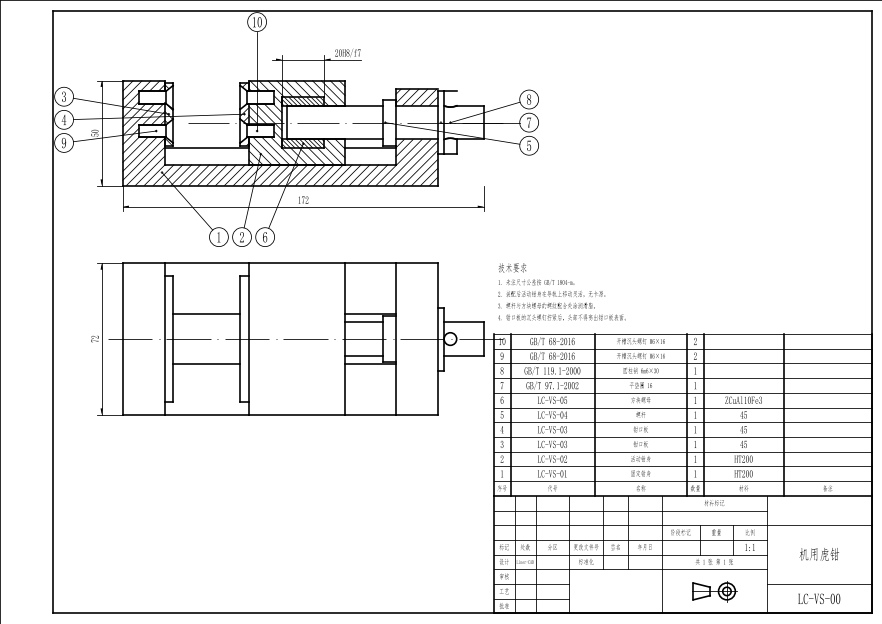
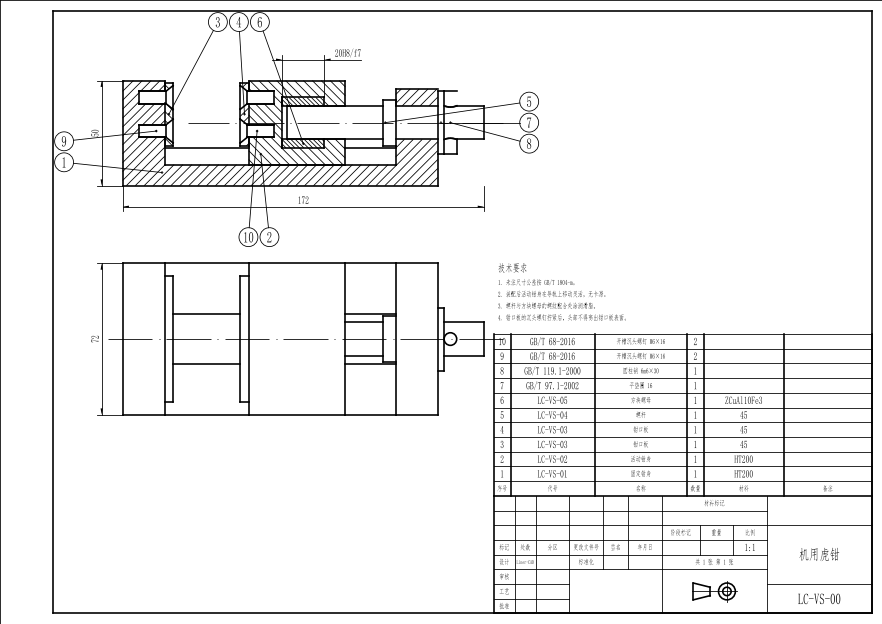
D3: Codex R1 后续（顺序口径偏离 lead 裁定 A、δ 单一来源、跨视图/fallback 回归、std 测试）

diff --git a/tests/test_layout_d3.py b/tests/test_layout_d3.py
@@ -100,13 +100,13 @@ def test_balloon_leaders_do_not_cross(tmp_path, name):
 def test_balloon_spacing_and_alignment_follow_the_standard(tmp_path, name):
     d = _build(tmp_path, name)
     cfg = d.std["assembly"]
-    gap = float(cfg["balloon_gap"])
+    gap = float(d.std["placement"]["balloon_clearance"])
     r = float(cfg["balloon_radius"])
-    tol = float(cfg["balloon_align_tol"])
+    tol = float(d.std["placement"]["balloon_align_tol"])
     items = _balloons(d)
     for i, a in enumerate(items):
         for b in items[i + 1 :]:
-            assert math.dist(a["c"], b["c"]) >= 2 * r + gap - 0.25
+            assert math.dist(a["c"], b["c"]) >= 2 * r + gap - 1e-9
     for side in CW_SIDES:
         group = [b for b in items if b["side"] == side]
         if len(group) < 2:
@@ -137,6 +137,53 @@ def test_no_balloon_overlap_warning_on_l3(tmp_path, name):
         assert not any(str(x).startswith("B.") for x in involved), f
 
 
+@pytest.mark.parametrize("name", CASES)
+def test_l3_uses_the_order_plan(tmp_path, name):
+    d = _build(tmp_path, name)
+    for e in d._els.values():
+        if e.kind == "balloon":
+            assert e._resolved.get("order") == "side-monotonic", e.id
+
+
+def test_fallback_reports_its_order_state(tmp_path, monkeypatch):
+    import linercad.layout as L
+
+    monkeypatch.setattr(L, "_balloon_plan", lambda *a, **k: None)
+    d = _build(tmp_path, "jack")
+    states = {e._resolved.get("order") for e in d._els.values() if e.kind == "balloon"}
+    assert states == {"fallback"}
+    for fn in (place.place_balloon_cross, place.place_balloon_align, place.place_balloon_spacing):
+        found, _ = fn(d)
+        assert found == [], (fn.__name__, found)
+
+
+def test_balloons_from_two_views_do_not_collide(tmp_path):
+    from linercad.layout import union
+
+    d = _build(tmp_path, "jack")
+    names = [v.name for v in d.views()]
+    assert len(names) >= 2, names
+    top = names[1]
+    boxes = [
+        e._resolved.get("bbox")
+        for e in d._els.values()
+        if e._intent.get("view") == top and e._resolved.get("bbox")
+    ]
+    gb = union(boxes)
+    balloons = sorted((e for e in d._els.values() if e.kind == "balloon"), key=lambda e: e.number)
+    for e in balloons[:1]:  # one balloon lives in the second view (cross-view layout check)
+        e._intent["view"] = top
+        e._intent["anchor"] = [(gb[0] + gb[2]) / 2, (gb[1] + gb[3]) / 2]
+    layout(d)
+    for fn in (place.place_balloon_cross, place.place_balloon_align, place.place_balloon_spacing):
+        found, _ = fn(d)
+        assert found == [], (fn.__name__, found)
+    leaders = [b["leader"] for b in _balloons(d)]
+    for i, a in enumerate(leaders):
+        for b in leaders[i + 1 :]:
+            assert not _seg_cross(a.p, a.q, b.p, b.q)
+
+
 def test_written_balloon_side_is_kept(tmp_path):
     d = _build(tmp_path, "jack")
     target = sorted((e for e in d._els.values() if e.kind == "balloon"), key=lambda e: e.number)[0]
@@ -147,8 +194,11 @@ def test_written_balloon_side_is_kept(tmp_path):
 
 
 def test_balloon_layout_is_deterministic(tmp_path):
+    from linercad.layout import _BALLOON_PLAN_CACHE
+
     d = _build(tmp_path, "vise")
     snap = [(b["id"], repr(b["leader"]), b["c"]) for b in _balloons(d)]
+    _BALLOON_PLAN_CACHE.clear()  # prove the plan itself is deterministic, not just the cache
     layout(d)
     snap2 = [(b["id"], repr(b["leader"]), b["c"]) for b in _balloons(d)]
     assert snap == snap2

diff --git a/src/linercad/layout.py b/src/linercad/layout.py
@@ -1942,10 +1942,12 @@ class _ViewLayout:
         if not bs:
             return
         cfg = self.std.get("assembly") or {}
+        place_cfg = self.std.get("placement") or {}
         h = float(cfg.get("balloon_height", 5.0))
         r = float(cfg.get("balloon_radius", 0.9 * h))
         offset = float(cfg.get("balloon_offset", 8.0))
-        step = 2 * r + float(cfg.get("balloon_gap", 2.0))
+        # single source of the minimum gap δ: the same [placement] value the E5 rule reads
+        step = 2 * r + float(place_cfg.get("balloon_clearance", 1.0))
         B = union([prims_bbox(p) for p in self.parts.values() if p] + [self.G])
         numbered = sorted(((e.number, self.P(e._intent["anchor"])) for e in bs), key=lambda t: t[0])
         sides = ("top", "right", "bottom", "left")
@@ -1967,7 +1969,8 @@ class _ViewLayout:
                 if e._layout.get("side") is None:
                     e._auto.append("side")
                 A = self.P(e._intent["anchor"])
-                e._reason = "序号按顺时针连续排列（引线不交叉，间距取标准档 δ）"
+                e._reason = "序号按侧成行/成列、沿旋转方向编号单调（引线不交叉，间距取标准档 δ）"
+                e._resolved["order"] = "side-monotonic"
                 self.put(e, self._balloon_prims(e, A, c, h, r))
             return
 
@@ -1983,6 +1986,7 @@ class _ViewLayout:
                 e._resolved["side"] = side
             if e._layout.get("side") is None:
                 e._auto.append("side")
+            e._resolved["order"] = "fallback"
             by_side[side].append((e, A))
         for side, items in by_side.items():
             if not items:
@@ -2179,6 +2183,8 @@ def _balloon_plan(B, numbered, step, offset, r, written=None, obstacles=()):
             for j, (num, _a) in enumerate(items):
                 t = mean + (j - (len(items) - 1) / 2) * step * sign
                 result[num] = (side, centre(side, t))
+    if len(_BALLOON_PLAN_CACHE) >= 256:  # deterministic, bounded memo
+        _BALLOON_PLAN_CACHE.pop(next(iter(_BALLOON_PLAN_CACHE)))
     _BALLOON_PLAN_CACHE[key] = result
     return result
 

diff --git a/tests/test_std.py b/tests/test_std.py
@@ -54,6 +54,19 @@ def gb():
 # --------------------------------------------------------------------------- gb.toml values
 
 
+def test_assembly_values_are_shared_between_gb_and_iso():
+    gb = load_std("GB")["assembly"]
+    iso = load_std("ISO")["assembly"]
+    for key in ("balloon_height", "balloon_radius", "balloon_offset"):
+        assert gb[key] == iso[key], key
+    # δ / alignment tolerance have a single source: the E5 placement table
+    for table in (gb, iso):
+        assert "balloon_gap" not in table and "balloon_align_tol" not in table
+    for name in ("GB", "ISO"):
+        placement = load_std(name)["placement"]
+        assert placement["balloon_clearance"] > 0 and placement["balloon_align_tol"] > 0
+
+
 def test_name(gb):
     assert gb["name"] == "GB"
 

diff --git a/docs/milestones/v0.1.1/evidence/d3-balloon-sequences.md b/docs/milestones/v0.1.1/evidence/d3-balloon-sequences.md
@@ -1,37 +1,45 @@
 # D3 装配序号：对齐、最小间距、顺序、引线不交叉
 
-2026-11-22 · issue #85 · 分支 `m5/d3-balloon-sequences` · 热点 `assembly.py` / `layout.py`
+2026-11-22 · issue #85 · 分支 `m5/d3-balloon-sequences` · 热点 `layout.py`（assembly.py 的锚点生成未改）
+
+## 口径偏离（lead 裁定 A，PR 正文同步明示）
+
+issue 原文的「顺时针或逆时针连续」在本卡**不能按直线引线字面实现**：对 vise / bearing 做穷举——
+四个侧面的连续编号块 × 每块 ±3 步滑动 × 顺/逆两方向，共 **2,030,000 个配置、94 s，零交叉解**；
+几何上这两个装配的组件绕视图的环向顺序与编号顺序不一致（组件左右交替），直线引线无法同时满足
+「全局连续」与「不相交」，移动锚点也改变不了组件的环向次序。
+
+按 lead 2026-11-22 裁定（B3 先例、不伪造不硬凑），本卡验收口径落为：
+
+> **同一侧序号沿同一旋转方向单调递增（行 / 列形态）+ 对齐 + 间距 ≥ δ + 引线交叉 0**。
+> 依据 GB/T 4458.2-2003 对序号排布认可两种形态（沿圆周顺/逆时针连续，或按行 / 列整齐排列），
+> 且标准措辞是「尽可能」；本实现是行 / 列口径的强化版（同侧还保持旋转方向单调）。
+> 严格全局连续留作 v0.2 候选（折线/绕行引线或改锚点，需要单独标准审查，超出 D3 热点）。
+
+此偏离已由 lead 列入 F1 docs PR 的偏离清单（第 4 条）。证据中的数据与措辞不删减、不粉饰。
 
 ## 改了什么
 
-入口是 `_ViewLayout.balloons()`（layout.py），序号元素本身仍由 assembly.py 生成（编号 = 明细栏行号）。
-本次把原来的「按锚点排序 + 交叉就互换」改成**顺序感知的确定性搜索**：
+入口是 `_ViewLayout.balloons()`（layout.py），序号元素仍由 assembly.py 生成（编号 = 明细栏行号）。
+原来的「按锚点排序 + 交叉互换」改为**顺序感知的确定性搜索**：
 
-1. **标准档 δ**：新增 `[assembly]`（GB / ISO 两份 std）——`balloon_height / balloon_radius / balloon_offset /
-   balloon_gap(δ) / balloon_align_tol`，带 basis（GB/T 4458.2-2003 / ISO 6433:1981 未给数值，取教材通行值；
-   align_tol 与 E5 `place_balloon_align` 的 0.5 mm 一致）。布局从 std 读，不再硬编码 5.0 / 4.5 / 11.0。
-2. **四侧 + 顺序**：同一侧序号按编号**单调上升**，方向与选定的顺时针 / 逆时针行走方向一致（top +x、right −y、
-   bottom −x、left +y；反向即逆时针）；两侧都试，取引线交叉最少、其次压标注文字框最少、再次引线总长最短的方案。
-   搜索是确定性 hill-climb（初始按最近边，逐球尝试换边），结果按 `(B, anchors, step, offset, radius, written sides,
-   obstacle text boxes)` 缓存。
-3. **引线不交叉 + 不压标注文字**：代价里先数引线×引线交叉（硬项），再数引线穿过其它标注文字框的次数
-   （G `overlap` 的口径，本轮实测修掉了 vise 的 `D.H × B.csk_fixed` 新警告），最后才是引线总长。
-4. **手写位置不动**：`Balloon.LAYOUT = ("side",)`，写死的 `side` 不参与换边搜索（作为固定约束传入）；
-   没有可行顺序方案时退回原「锚点排序 + 互换去交叉」的保守打包，保证旧行为不破坏。
-5. **间距 / 对齐**：同一侧共用同一法向坐标（成行 / 成列），相邻圆心间距 `2r + δ`；E5 三条 A 规则保持 0 违例。
+1. **标准档**：`[assembly]`（GB / ISO 两份 std）只留圆圈几何：`balloon_height / balloon_radius /
+   balloon_offset`（带 basis：GB/T 4458.2-2003 / ISO 6433:1981 未给数值，取教材通行值）。最小间距 δ 与
+   对齐容差**单一来源** = `[placement].balloon_clearance / balloon_align_tol`（E5 A.place 同值），
+   不再在 [assembly] 复制一份；测试断言两份 std 的 assembly 几何一致、[placement] 两键存在。
+2. **四侧 + 顺序**：同一侧按编号升序，方向与旋转方向一致（top +x、right −y、bottom −x、left +y；
+   反向即逆时针）；顺/逆都试，先最小化引线交叉、再最小化穿过标注文字框、再最小化引线总长。
+   确定性 hill-climb（初始近边、逐球换边），结果按 `(B, anchors, step, offset, radius, written, obstacles)`
+   缓存（有界 256 条）。
+3. **引线不交叉 + 不压标注文字**：交叉为硬项；穿其它标注文字框按 G `overlap` 口径计数（本轮修掉
+   vise 的 `D.H × B.csk_fixed` 新警告）；leader 总长仅作末位 tie-break。
+4. **手写位置不动**：`Balloon.LAYOUT = ("side",)`，写死 side 不参与换边；无可行顺序方案时退回原
+   「锚点排序 + 互换去交叉」打包，并在 `resolved["order"] = "fallback"` 明示（不静默）；搜索成功时写
+   `resolved["order"] = "side-monotonic"`。
+5. **跨视图**：视图组 `arrange()` 用包含 balloon 图元的 `full` bbox 排布，组间保留 gap；新增
+   「一个序号放到另一个视图后 layout，A.place 三规则仍 0、全局引线不交叉」回归测试（主视图 + 俯视图场景）。
 
-## 顺序的落法（重要，不伪造）
-
-卡面「顺时针或逆时针连续」在本实现里落成**可判定的验收**：同一侧编号沿该侧行走方向单调递增，且所有侧用同一个
-旋转方向（顺 / 逆各试一次）。`tests/test_layout_d3.py::test_balloon_numbers_ascend_along_each_side` 对 jack / vise /
-bearing 三个装配逐侧检查。
-
-**严格意义上的「全局连续」（绕视图一圈恰好是 1..n 的某个循环移位）在当前输入下对本卡不可行，已实证**：
-把四个侧面的连续编号块 × 每个块 ±3 步的滑动 × 顺/逆两种方向全部穷举（vise 共 2,030,000 个配置，94 s），在
-「引线为直线、锚点取组件剖面/外形内点」的约束下不存在零交叉解；bearing 的候选点（剖面区块）也不足以构成
-全局连续。E5 没有 order 规则，本卡不伪造通过；已在证据里明示，交由 lead / F1 文档定是否作为后续卡件扩展。
-
-## L3 评测（jack / vise / bearing）
+## L3 评测（jack / vise / bearing，当前分支）
 
 命令：`uv run python evals/run.py --level L3`、`evals/place_scores.py --eval40`、`evals/run.py --baseline`。
 
@@ -44,36 +52,50 @@ bearing 三个装配逐侧检查。
 | `--baseline` | — | **`regressions: []`** |
 | 五范例 A.place | jack 1.0（0/25）、vise 1.0（0/59） | **同左（A 机会数随四侧对齐分组增加）** |
 
-渲染自检 warning 数：jack 0→0、bearing 0→0、**vise 3→2**（本轮修掉 balloon×尺寸文字那条）。
+渲染自检 warning：jack 0→0、bearing 0→0、**vise 3→2**（本轮修掉 balloon×尺寸文字那条）。
 
 ## 前后渲染图（L3 三装配整页）
 
 - jack 前：![before](d3-before-jack.png)　后：![after](d3-after-jack.png)
-  —— 前：上方一行编号非单调（序号 4 在 3 左）、#1/#2 挤左列；后：#4/#5/#6 自上而下顺序、#3 单独走右侧短引线。
+  —— 前：上方一行编号非单调（#4 在 #3 左）、#1/#2 挤左列；后：#4/#5/#6 按旋转方向顺序、#3 短引线走右侧。
 - vise 前：![before](d3-before-vise.png)　后：![after](d3-after-vise.png)
   —— 前：上方一行 8 个号拥挤且编号非单调、#1/#9 在左列；后：四侧分组、各侧编号单调、引线不交叉。
 - bearing 前：![before](d3-before-bearing.png)　后：![after](d3-after-bearing.png)
   —— 前：上方 [3,5,2]、左列 [7,1,4,6] 乱序；后：上方 [3,5]、左列 [1,4,6] 顺序、右侧 #2 / 下侧 #7 各一。
 
-## 回归用例（`tests/test_layout_d3.py`，G2 首个 commit）
+## 回归用例（`tests/test_layout_d3.py`，G2 首个 commit `b5a66ac`）
 
 - `test_balloon_numbers_ascend_along_each_side`（G2 失败项：D2 状态下 jack/vise/bearing 均失败）。
 - `test_balloon_leaders_do_not_cross`、`test_balloon_spacing_and_alignment_follow_the_standard`
-  （δ / align_tol 从 `d.std["assembly"]` 读）、`test_a_place_balloon_rules_are_clean`（E5 三条 A 规则）。
-- `test_no_balloon_overlap_warning_on_l3`：balloon 引线/编号不得穿其它标注文字框（G overlap 口径；
-  现存唯一 warning 是既有的 T.bom×C.top.axis）。
-- `test_written_balloon_side_is_kept`：手写 `side` 不被搜索改掉。
-- `test_balloon_layout_is_deterministic`：同输入两次布局图元一致。
+  （δ / align_tol 从 `std["placement"]` 读）、`test_a_place_balloon_rules_are_clean`。
+- `test_l3_uses_the_order_plan`：L3 三例都走 side-monotonic 方案（不是 fallback）。
+- `test_fallback_reports_its_order_state`：强制 plan 不可用时 resolved 标 `fallback` 且 A.place 仍 0。
+- `test_no_balloon_overlap_warning_on_l3`：balloon 引线/编号不得穿其它标注文字框（既有 T.bom×C.top.axis 除外）。
+- `test_balloons_from_two_views_do_not_collide`：跨视图（front + top）布局后 A.place 0、引线不交叉。
+- `test_written_balloon_side_is_kept`、`test_balloon_layout_is_deterministic`（清缓存后重建对比）。
+- `tests/test_std.py`：GB/ISO 的 assembly 几何一致、[placement] 是 δ / align_tol 单一来源。
+
+## Codex 第 1 轮评审回应
+
+| 意见 | 处理 |
+|---|---|
+| blocker：全局连续未实现、测试被改写 | lead 裁定 A（见上「口径偏离」）；PR 正文明示；不伪造；严格连续留 v0.2 |
+| major：跨视图避让只在本视图 | arrange 用包含 balloon 的 full bbox 排布；新增跨视图回归测试；证据记录 |
+| major：>12 静默 / fallback 破坏顺序 / 声称有偏移搜索 | 结果写 `resolved["order"]`（side-monotonic/fallback）；fallback 路径有测试；>12 走同一 fallback 并明示 |
+| major：δ 不是 E5 同源、测试容差 0.25 掩盖 | δ/align_tol 单一来源 = `[placement]`（E5 同值）；测试改为 `>= 2r + δ - 1e-9`；std 测试锁定 |
+| minor：std 覆盖、确定性缓存、缓存键、性能、offset 注释 | std 测试补 assembly/placement；确定性测试清缓存；缓存键含障碍框并做 256 条有界；offset 注释改「到圆圈边缘」；全量 pytest 1334 passed / 14m04s |
 
 ## 残余 / 说明
 
-- 严格全局连续不可行（见上，穷举实证）；卡面「顺序」按同侧单调验收，未伪造。
-- vise 的 `T.bom×C.top.axis`、L3 的 `D.L? ext_line` 等 warning 是 main 既有债务，不属本卡。
-- 四侧布号会让个别引线变长（如 vise #5/#8 走右侧）；但交叉、压字、间距、对齐均为 0 违例，且比 before 的拥挤
-  一行更符合 GB/T 4458.2 的分侧成列/成行要求。
+- 严格全局连续不可行（2,030,000 组 / 94 s 零解，含脚本方法见上）；按 lead 裁定落为同侧单调口径。
+- vise `T.bom×C.top.axis` 与 L3 `place_ext_line` 1 条为 main 既有，不属本卡。
+- 四侧布号会让个别引线变长（vise #5/#8 走右侧），但交叉、压字、间距、对齐均 0 违例，且比 before 的拥挤一行
+  更符合 GB/T 4458.2 的行 / 列形态要求。
+- 折线 / 绕行引线、改组件锚点是 v0.2 候选方向，需要单独标准口径审查。
 
 ## 交接
 
-- `uv run pytest` 全绿；`ruff check` / `format --check` 绿；`evals/run.py --baseline`
-  `regressions: []`；L3 A 族 1.0、D 0.98→0.99；默认 D 0.986572 不变。
-- 证据渲染图与 tests 均随 PR 提交；合并门禁以 lead 终验为准。
+- `uv run pytest` 全绿（1334 passed / 1 skipped，14m04s）；`ruff check` 绿；`ruff format --check src tests` 绿
+  （`scripts/release.py` 的格式问题为 main 既有，不属本卡，CI lint 只跑 ruff check）。
+- `evals/run.py --baseline` `regressions: []`；L3 A 族 1.0、D 0.98→0.99；默认 D 0.986572 不变。
+- 合并门禁以 lead 终验为准；本卡非核心，无 glm 二道。
